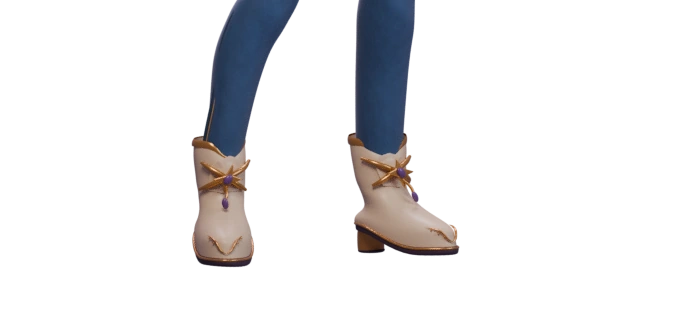
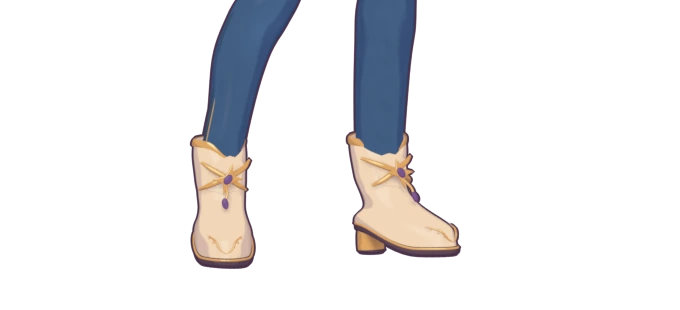
Render the wardrobe preview with editable cel shading

Changed region(s): [[0.4941, 0.0, 0.6794, 0.8419], [0.2779, 0.0, 0.4632, 0.871]]

diff --git a/docs/avatar-3d.html b/docs/avatar-3d.html
@@ -7,7 +7,7 @@
 <meta name="description" content="같은 코디의 2D 원화와 3D 모델 렌더를 비교해 보세요.">
 <title>캐릭터 제작 시안 · 알찬끼</title>
 <link rel="stylesheet" href="./avatar-3d.css">
-<script type="module" src="./avatar-3d.mjs?v=4"></script>
+<script type="module" src="./avatar-3d.mjs?v=5"></script>
 </head>
 <body>
 <main>
@@ -49,7 +49,7 @@
       <p class="failure" data-error="current" hidden>현재 옷장 이미지를 불러오지 못했습니다.</p>
     </figure>
     <figure class="study">
-      <figcaption>3D 렌더 시안</figcaption>
+      <figcaption>3D 카툰 렌더</figcaption>
       <canvas id="study" width="680" height="1060" role="img" aria-label="3D 모델에서 출력한 착장"></canvas>
       <p class="failure" data-error="study" hidden>시안 이미지를 불러오지 못했습니다.</p>
     </figure>

diff --git a/scripts/avatar-studio/render.py b/scripts/avatar-studio/render.py
@@ -8,6 +8,9 @@ import sys
 import bpy
 from mathutils import Vector
 
+sys.path.insert(0, str(Path(__file__).resolve().parent))
+from cel_style import add_outline, linear, style_materials
+
 
 OUTFITS = {
     "hoodie": ("hoodie","hair","boots"),
@@ -27,15 +30,11 @@ def command_line():
     return parser.parse_args(sys.argv[sys.argv.index("--") + 1:])
 
 
-def linear(hex_color):
-    values = [int(hex_color[i:i + 2], 16) / 255 for i in (0, 2, 4)]
-    return [v / 12.92 if v <= .04045 else ((v + .055) / 1.055) ** 2.4 for v in values]
-
-
-def material(name, color, roughness=.58, *, metal=0, cloth=False):
+def material(name, color, roughness=.58, *, metal=0, cloth=False, surface=None):
     result = bpy.data.materials.new(name)
     result.diffuse_color = (*linear(color), 1)
     result.use_nodes = True
+    result["studio_surface"] = surface or ("metal" if metal else "cloth" if cloth else "matte")
     nodes = result.node_tree.nodes
     links = result.node_tree.links
     shader = nodes.get("Principled BSDF")
@@ -43,23 +42,14 @@ def material(name, color, roughness=.58, *, metal=0, cloth=False):
     shader.inputs["Roughness"].default_value = roughness
     shader.inputs["Metallic"].default_value = metal
     if cloth:
-        shader.inputs["Sheen Weight"].default_value = .21
-        noise = nodes.new("ShaderNodeTexNoise")
-        noise.inputs["Scale"].default_value = 150
-        noise.inputs["Detail"].default_value = 2
         grain = nodes.new("ShaderNodeTexNoise")
-        grain.inputs["Scale"].default_value = 29
-        grain.inputs["Detail"].default_value = 2.6
+        grain.inputs["Scale"].default_value = 18
+        grain.inputs["Detail"].default_value = 1.2
         tint = nodes.new("ShaderNodeValToRGB")
-        tint.color_ramp.elements[0].color = tuple(c*.78 for c in result.diffuse_color[:3]) + (1,)
-        tint.color_ramp.elements[1].color = tuple(min(1,c*1.135+.003) for c in result.diffuse_color[:3]) + (1,)
+        tint.color_ramp.elements[0].color = tuple(c*.90 for c in result.diffuse_color[:3]) + (1,)
+        tint.color_ramp.elements[1].color = tuple(min(1,c*1.08+.003) for c in result.diffuse_color[:3]) + (1,)
         links.new(grain.outputs["Fac"], tint.inputs[0])
         links.new(tint.outputs[0], shader.inputs["Base Color"])
-        bump = nodes.new("ShaderNodeBump")
-        bump.inputs["Strength"].default_value = .19
-        bump.inputs["Distance"].default_value = .008
-        links.new(noise.outputs["Fac"], bump.inputs["Height"])
-        links.new(bump.outputs["Normal"], shader.inputs["Normal"])
     return result
 
 
@@ -173,11 +163,8 @@ def inset_panel(name, outline, mat, thickness=.012):
 def prepare_scene(draft):
     bpy.ops.wm.read_factory_settings(use_empty=True)
     scene = bpy.context.scene
-    scene.render.engine = "CYCLES"
-    scene.cycles.samples = 18 if draft else 128
-    scene.cycles.use_denoising = False
-    scene.cycles.adaptive_threshold = .019
-    scene.cycles.max_bounces = 5
+    scene.render.engine = "BLENDER_EEVEE_NEXT"
+    scene.eevee.taa_render_samples = 14 if draft else 32
     scene.render.threads_mode = "FIXED"
     scene.render.threads = 3
     scene.render.film_transparent = True
@@ -186,9 +173,9 @@ def prepare_scene(draft):
     scene.render.resolution_x = 680
     scene.render.resolution_y = 1060
     scene.render.resolution_percentage = 55 if draft else 100
-    scene.view_settings.view_transform = "AgX"
-    scene.view_settings.look = "AgX - Medium High Contrast"
-    scene.view_settings.exposure = -.13
+    scene.view_settings.view_transform = "Standard"
+    scene.view_settings.look = "None"
+    scene.view_settings.exposure = 0
     scene.world = bpy.data.worlds.new("Warm studio")
     scene.world.use_nodes = True
     scene.world.node_tree.nodes.get("Background").inputs[0].default_value = (.34, .29, .44, 1)
@@ -201,15 +188,15 @@ def prepare_scene(draft):
     scene.camera.data.type = "ORTHO"
     scene.camera.data.ortho_scale = 6.37
 
-    for name, where, power, size, color in [
-        ("Apricot key", (-4, -6, 8), 655, 3.7, (1, .84, .73)),
-        ("Lavender fill", (4, -5, 4.2), 235, 4, (.82, .86, 1)),
-        ("Hair and shoulder rim", (1, 3, 7), 600, 3.4, (.97, .78, 1)),
+    for name, where, power, angle, color in [
+        ("Warm drawing key", (-4.8, -6.6, 8.7), 1.86, .105, (1, .94, .91)),
+        ("Face fill", (3.2, -5.2, 3.7), .38, .23, (.94, .94, 1)),
+        ("Wave and shoulder rim", (1.5, 4.2, 7.1), .63, .115, (.92, .87, 1)),
     ]:
-        bpy.ops.object.light_add(type="AREA", location=where)
+        bpy.ops.object.light_add(type="SUN", location=where)
         obj = bpy.context.object
         obj.name = name
-        obj.data.energy, obj.data.size, obj.data.color = power, size, color
+        obj.data.energy, obj.data.angle, obj.data.color = power, angle, color
         obj.rotation_euler = (Vector((0, 0, 3.7)) - obj.location).to_track_quat("-Z", "Y").to_euler()
     return scene
 
@@ -250,9 +237,9 @@ def color_attributes(obj, name, colors):
 def painted_face_material(skin):
     paint = skin.copy()
     paint.name = "Wardrobe artwork on sculpted face"
+    paint["studio_surface"] = "face"
     nodes, links = paint.node_tree.nodes, paint.node_tree.links
     shader = nodes.get("Principled BSDF")
-    shader.inputs["Specular IOR Level"].default_value = .23
     mask = nodes.new("ShaderNodeVertexColor")
     mask.layer_name = "Paint coverage"
     image = nodes.new("ShaderNodeTexImage")
@@ -265,8 +252,6 @@ def painted_face_material(skin):
     links.new(mask.outputs["Color"], mix.inputs[0])
     links.new(image.outputs["Color"], mix.inputs[2])
     links.new(mix.outputs[0], shader.inputs["Base Color"])
-    links.new(mix.outputs[0], shader.inputs["Emission Color"])
-    shader.inputs["Emission Strength"].default_value = .42
     return paint, image.image.size[:]
 
 
@@ -1023,12 +1008,11 @@ def make_variant(name, callback, *args):
 
 
 def build():
-    skin = material("Peach skin", "efac8e", .58)
-    skin.node_tree.nodes.get("Principled BSDF").inputs["Subsurface Weight"].default_value = .07
+    skin = material("Peach skin", "f1ae91", .58, surface="skin")
     gold = material("Champagne brass", "d7a363", .27, metal=.65)
     ivory = material("Oatmeal cloth", "edded0", cloth=True)
     sole = material("Soft cocoa rubber", "5c4756")
-    lock = material("Satin highlights on lilac waves", "805391", .34)
+    lock = material("Painted lilac waves", "805391", .34, surface="hair")
     pigment = lock.node_tree.nodes.new("ShaderNodeVertexColor")
     pigment.layer_name = "Lilac pigments"
     shader = lock.node_tree.nodes.get("Principled BSDF")
@@ -1043,12 +1027,12 @@ def build():
         "hair":make_variant("Hair | airy lilac waves",hair,violet),
         "seat":make_variant("Hair | fitted to beret",hair,violet,True),
         "hat":make_variant("Cream beret",beret,ivory,material("Toasted wool edging","c9a991",cloth=True),gold),
-        "hoodie":make_variant("Mint hoodie",hoodie,material("Sea-glass fleece","719e8d", cloth=True),
-            material("Mint rib knit","547f70",cloth=True),material("Mint embroidery","bdd8bb"),ivory,gold),
-        "coat":make_variant("Night coat",coat,material("Mulberry twill","4d2947",cloth=True),
-            material("Violet collar","673b58",cloth=True),ivory,gold,material("Rose edge","a1748b")),
+        "hoodie":make_variant("Mint hoodie",hoodie,material("Sea-glass fleece","89b6a1", cloth=True),
+            material("Mint rib knit","6c947e",cloth=True),material("Mint embroidery","bdd8bb"),ivory,gold),
+        "coat":make_variant("Night coat",coat,material("Mulberry twill","653957",cloth=True),
+            material("Violet collar","7d4b69",cloth=True),ivory,gold,material("Rose edge","a1748b")),
         "sneakers":make_variant("Low canvas shoes",footwear,"sneakers",ivory,sole,gold,material("Laces","fff0d3")),
-        "boots":make_variant("Stardust boots",footwear,"boots",material("Ivory satin leather","e3ccac",.41),
+        "boots":make_variant("Stardust boots",footwear,"boots",material("Ivory satin leather","ead2b5",.41,surface="leather"),
             sole,gold,material("Lilac enamel","76538b",.26))
     }
     for hem in hems:
@@ -1073,6 +1057,8 @@ def main():
     args.output.mkdir(parents=True, exist_ok=True)
     scene = prepare_scene(args.draft)
     groups = build()
+    style_materials()
+    add_outline(scene,args.draft)
     fit_pose()
     fit_reference_pose(scene)
     select(groups, "hoodie", "hair", "boots")

diff --git a/scripts/avatar-studio/cel_style.py b/scripts/avatar-studio/cel_style.py
@@ -1,0 +1,180 @@
+"""Editable cel shading for the Blender wardrobe scene."""
+import bpy
+
+
+def linear(hex_color):
+    values = [int(hex_color[i:i + 2], 16) / 255 for i in (0, 2, 4)]
+    return [v / 12.92 if v <= .04045 else ((v + .055) / 1.055) ** 2.4 for v in values]
+
+
+def tone_curve(tree, signal, stops, label):
+    node = tree.nodes.new("ShaderNodeValToRGB")
+    node.label = label
+    ramp = node.color_ramp
+    ramp.interpolation = "LINEAR"
+    for element, (position, color) in zip(ramp.elements, (stops[0], stops[-1])):
+        element.position, element.color = position, (*color,1)
+    for position, color in stops[1:-1]:
+        ramp.elements.new(position).color = (*color,1)
+    tree.links.new(signal, node.inputs[0])
+    return node.outputs["Color"]
+
+
+def studio_ink_shader():
+    tree = bpy.data.node_groups.new("Wardrobe cel shading", "ShaderNodeTree")
+    sockets = (
+        ("Surface", "OUTPUT", "NodeSocketShader"),
+        ("Pigment", "INPUT", "NodeSocketColor"),
+        ("Shadows", "INPUT", "NodeSocketFloat"),
+        ("Highlights", "INPUT", "NodeSocketFloat"),
+        ("Highlight colour", "INPUT", "NodeSocketColor"),
+        ("Edge ink", "INPUT", "NodeSocketFloat"),
+    )
+    for name, side, kind in sockets:
+        socket = tree.interface.new_socket(name=name, in_out=side, socket_type=kind)
+        if kind == "NodeSocketFloat":
+            socket.min_value, socket.max_value = 0, 1
+    nodes, links = tree.nodes, tree.links
+    panel = nodes.new("NodeGroupInput").outputs
+    panel["Pigment"].node.location = (-1065, 115)
+
+    def connect(a, b):
+        if isinstance(a,bpy.types.NodeSocket):
+            links.new(a,b)
+        else:
+            b.default_value = a
+
+    def math_node(operation, a, b=0, *, vector=False):
+        node = nodes.new("ShaderNodeVectorMath" if vector else "ShaderNodeMath")
+        node.operation = operation
+        connect(a,node.inputs[0])
+        if operation not in ("ABSOLUTE","NORMALIZE"):
+            connect(b,node.inputs[1])
+        return node.outputs["Value" if operation=="DOT_PRODUCT" or not vector else "Vector"]
+
+    def mix(name, operation, weight, a, b):
+        node = nodes.new("ShaderNodeMixRGB")
+        node.label, node.blend_type = name, operation
+        for socket,value in zip(node.inputs,(weight,a,b)):
+            connect(value,socket)
+        return node.outputs[0]
+
+    lambert = nodes.new("ShaderNodeBsdfDiffuse")
+    lambert.inputs["Color"].default_value = (1,1,1,1)
+    light = nodes.new("ShaderNodeShaderToRGB")
+    links.new(lambert.outputs[0],light.inputs[0])
+    luma = nodes.new("ShaderNodeRGBToBW")
+    links.new(light.outputs["Color"],luma.inputs[0])
+    shade, mid, lit = (.43,.36,.52), (.75,.68,.81), (1.09,1.045,1.015)
+    brightness = tone_curve(tree,luma.outputs[0],[
+        (0,shade),(.225,shade),(.267,mid),(.446,mid),(.485,lit),(1,lit)
+    ],"Violet shadow · half-tone · warm light")
+    paint = mix("Light over pigment","MULTIPLY",panel["Shadows"],panel["Pigment"],brightness)
+    lambert.location = (-1065,450)
+    light.location = (-850,450)
+    luma.location = (-666,450)
+    brightness.node.location = (-480,450)
+    paint.node.location = (50,450)
+
+    geometry = nodes.new("ShaderNodeNewGeometry").outputs
+    normal, eye = geometry["Normal"], geometry["Incoming"]
+    def dot(a,b):
+        return math_node("DOT_PRODUCT",a,b,vector=True)
+
+    key_and_view = math_node("ADD",eye,(-.48,-.66,.57),vector=True)
+    half = math_node("NORMALIZE",key_and_view,vector=True)
+    specular = dot(normal,half)
+    highlight = tone_curve(tree,specular,[
+        (0,(0,0,0)),(.922,(0,0,0)),(.970,(1,1,1)),(1,(1,1,1))
+    ],"Narrow paint highlights")
+    glare = math_node("MULTIPLY",highlight,panel["Highlights"])
+    with_highlight = mix("Coloured highlight","SCREEN",glare,paint,panel["Highlight colour"])
+    for socket,location in [
+        (normal,(-1065,-185)),(key_and_view,(-862,55)),(half,(-687,55)),
+        (specular,(-513,55)),(highlight,(-337,55)),(glare,(-18,55)),
+        (with_highlight,(260,450)),
+    ]:
+        socket.node.location = location
+
+    view_dot = dot(normal,eye)
+    glancing = math_node("ABSOLUTE",view_dot)
+    ink = tone_curve(tree,glancing,[(0,(1,1,1)),(.10,(1,1,1)),(.26,(0,0,0)),(1,(0,0,0))],
+                     "Contour and folds")
+    weight = math_node("MULTIPLY",ink,panel["Edge ink"])
+    painted = mix("Soft internal ink","MULTIPLY",weight,with_highlight,(.29,.19,.36,1))
+    for socket,location in [
+        (view_dot,(-861,-300)),(glancing,(-686,-300)),(ink,(-505,-300)),
+        (weight,(-191,-300)),(painted,(467,450)),
+    ]:
+        socket.node.location = location
+    emission = nodes.new("ShaderNodeEmission")
+    emission.location = (674,450)
+    links.new(painted,emission.inputs[0])
+    output = nodes.new("NodeGroupOutput")
+    output.location = (865,450)
+    links.new(emission.outputs[0],output.inputs["Surface"])
+    return tree
+
+
+def style_materials():
+    group = studio_ink_shader()
+    surfaces = {
+        # Amount of banded light, highlight weight, coloured rim strength.
+        "face": (.49,.011,.09,"ffd7bc"),
+        "skin": (.68,.021,.22,"ffd6bc"),
+        "cloth": (.87,.055,.34,"ddd8f1"),
+        "hair": (.76,.26,.38,"e8d2ff"),
+        "metal": (.87,.80,.30,"ffe5a1"),
+        "leather": (.83,.19,.35,"fff4e3"),
+        "matte": (.83,.07,.28,"eadcf6"),
+    }
+    for mat in bpy.data.materials:
+        if not mat.use_nodes:
+            continue
+        tree = mat.node_tree
+        shader = tree.nodes.get("Principled BSDF")
+        if shader is None:
+            continue
+        kind = mat.get("studio_surface","matte")
+        shadow,shine,ink,color = surfaces[kind]
+        cel = tree.nodes.new("ShaderNodeGroup")
+        cel.node_tree = group
+        cel.label = "Cartoon paint and lighting"
+        cel.location = (shader.location.x+280,shader.location.y)
+        base = shader.inputs["Base Color"]
+        cel.inputs["Pigment"].default_value = base.default_value
+        if base.is_linked:
+            tree.links.new(base.links[0].from_socket,cel.inputs["Pigment"])
+        cel.inputs["Shadows"].default_value = shadow
+        roughness = shader.inputs["Roughness"].default_value
+        cel.inputs["Highlights"].default_value = shine*(1.14-.33*roughness)
+        cel.inputs["Highlight colour"].default_value = (*linear(color),1)
+        cel.inputs["Edge ink"].default_value = ink
+        output = tree.nodes.get("Material Output")
+        output.location = (cel.location.x+245,cel.location.y)
+        tree.links.new(cel.outputs["Surface"],output.inputs["Surface"])
+        tree.nodes.remove(shader)
+
+
+def add_outline(scene, draft):
+    scene.use_nodes = True
+    tree = scene.node_tree
+    tree.nodes.clear()
+    render = tree.nodes.new("CompositorNodeRLayers")
+    expanded = tree.nodes.new("CompositorNodeDilateErode")
+    expanded.mode = "DISTANCE"
+    expanded.distance = 1 if draft else 2
+    tree.links.new(render.outputs["Alpha"],expanded.inputs[0])
+    stroke = tree.nodes.new("CompositorNodeSetAlpha")
+    stroke.mode = "REPLACE_ALPHA"
+    stroke.inputs["Image"].default_value = (*linear("473347"),1)
+    tree.links.new(expanded.outputs[0],stroke.inputs["Alpha"])
+    layer = tree.nodes.new("CompositorNodeAlphaOver")
+    layer.inputs[0].default_value = 1
+    tree.links.new(stroke.outputs[0],layer.inputs[1])
+    tree.links.new(render.outputs["Image"],layer.inputs[2])
+    output = tree.nodes.new("CompositorNodeComposite")
+    tree.links.new(layer.outputs[0],output.inputs[0])
+    for node,location in [(render,(-620,160)),(expanded,(-418,-15)),(stroke,(-207,-15)),
+                          (layer,(35,160)),(output,(247,160))]:
+        node.location = location

diff --git a/scripts/avatar-studio/README.md b/scripts/avatar-studio/README.md
@@ -1,6 +1,6 @@
 # 3D 캐릭터 제작 시안
 
-Blender 4.3과 Pillow로 원화를 다시 만들 수 있다. `--blend`를 지정하면 코디별 컬렉션이 있는 편집용 장면도 저장한다. `--draft`는 카메라와 소재를 빠르게 검토하는 저해상도 출력이다. 일부 착장만 다시 그릴 때는 `--outfit coat --outfit coat-beret`처럼 지정한다.
+Blender 4.3의 EEVEE와 Pillow로 투명 렌더를 다시 출력할 수 있다. `--blend`를 지정하면 코디별 컬렉션과 재질 노드가 들어 있는 장면도 저장한다. `--draft`는 카메라와 소재를 빠르게 검토하는 저해상도 출력이다. 일부 착장만 다시 그릴 때는 `--outfit coat --outfit coat-beret`처럼 지정한다.
 
 ```bash
 blender -b --python-exit-code 1 --python scripts/avatar-studio/render.py -- --output /tmp/alchankki-renders --blend /tmp/alchankki.blend
@@ -14,3 +14,5 @@ python scripts/avatar-studio/pack.py /tmp/alchankki-renders docs/assets/avatar-s
 얼굴은 원화의 3/4 윤곽을 따라 턱·광대·눈두덩·콧등의 깊이를 모델링했다. 기존 `faces.png`의 표정을 얼굴 표면에 UV로 맞추고 관자놀이와 뒷면에서 피부색에 섞는다. 편집용 Blender 파일에는 이 텍스처가 포함된다. 머리 가닥별로 폭과 두께, 색의 하이라이트를 정의하며 베레모 아래 앞머리는 눌린 형태를 사용한다. 소매 굴곡, 코트 자락, 데님 무릎, 베레모 리본과 부츠 굽은 실제 모델에 들어 있다.
 
 맨머리의 정수리와 신발 밑바닥을 기준으로 원화의 키를 680×1060 렌더에 맞췄다. `fit_reference_pose`는 이 화면에서 잰 어깨·허리·골반과 팔다리의 위치를 3D 메시의 좌표에 적용한다. 머리·모발·모자는 함께 크기를 맞춘다. 팔은 손과 소매가 같은 변환을 따르고, 발은 좌우 발목을 중심으로 바짓단과 신발이 함께 회전한다. 비교 페이지의 전신과 확대 보기는 같은 배율을 쓴다. 브라우저 검사는 모자 없는 후디 착장에서 머리 주변의 폭, 골반 너비, 양쪽 발목 위치가 원화 기준에서 벗어나는 경우를 잡는다.
+
+`cel_style.py`는 EEVEE 조명의 밝기를 세 단계로 나눠 바탕색에 입힌다. 얼굴은 UV 원화가 잘 읽히도록 명암을 약하게, 머리와 금속 장식은 좁은 반사광이 보이도록 강하게 설정했다. 의상의 잔 요철을 줄이고 모델에서 만든 큰 주름을 색면으로 드러냈다. 화면 합성에서 어두운 자주색 외곽선을 2px 덧댄다. 각 재질의 `Wardrobe cel shading` 그룹에서 그림자와 하이라이트를 조정할 수 있다.
